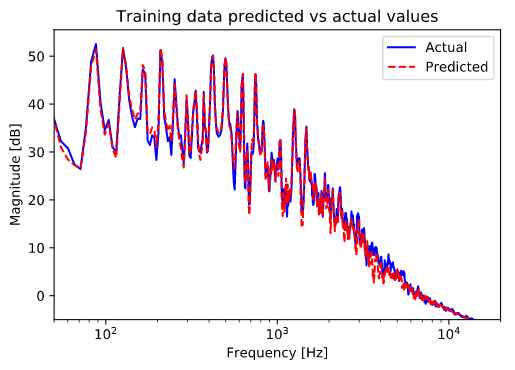
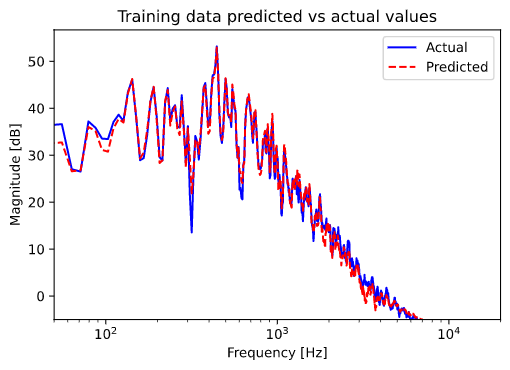
Update RNN training figures

diff --git a/GainStageTraining/centaur.py b/GainStageTraining/centaur.py
@@ -107,8 +107,8 @@ NUM_SAMPLES = 10000
 NUM_INPUTS = 3
 
 # %%
-model_file = 'models/centaur_small.json'
-model_hist = 'models/centaur_small_history.txt'
+model_file = 'models/centaur.json'
+model_hist = 'models/centaur_history.txt'
 
 # %%
 def model_loss(target_y, predicted_y):
@@ -126,16 +126,15 @@ model.load_history(model_hist)
 model.model.summary()
 
 # %%
-model.train(2000, IN_train, OUT_train, IN_val, OUT_val, save_model=model_file, save_hist=model_hist)
+model.train(1000, IN_train, OUT_train, IN_val, OUT_val, save_model=model_file, save_hist=model_hist)
 
 # %%
 # plot metrics
 plt.figure()
 model.plot_loss()
-# plt.ylim(0, 0.5)
 
-plt.figure()
-model.plot_error()
+# plt.figure()
+# model.plot_error()
 
 print(len(model.train_loss))
 print(model.train_loss[-1])
@@ -143,7 +142,7 @@ print(model.val_loss[-1])
 
 # %%
 # Test prediction
-idx = 48
+idx = 42
 predictions = model.model.predict(IN_train[idx].reshape(1, NUM_SAMPLES, NUM_INPUTS)).flatten()
 
 # Plot the predictions along with the test data
